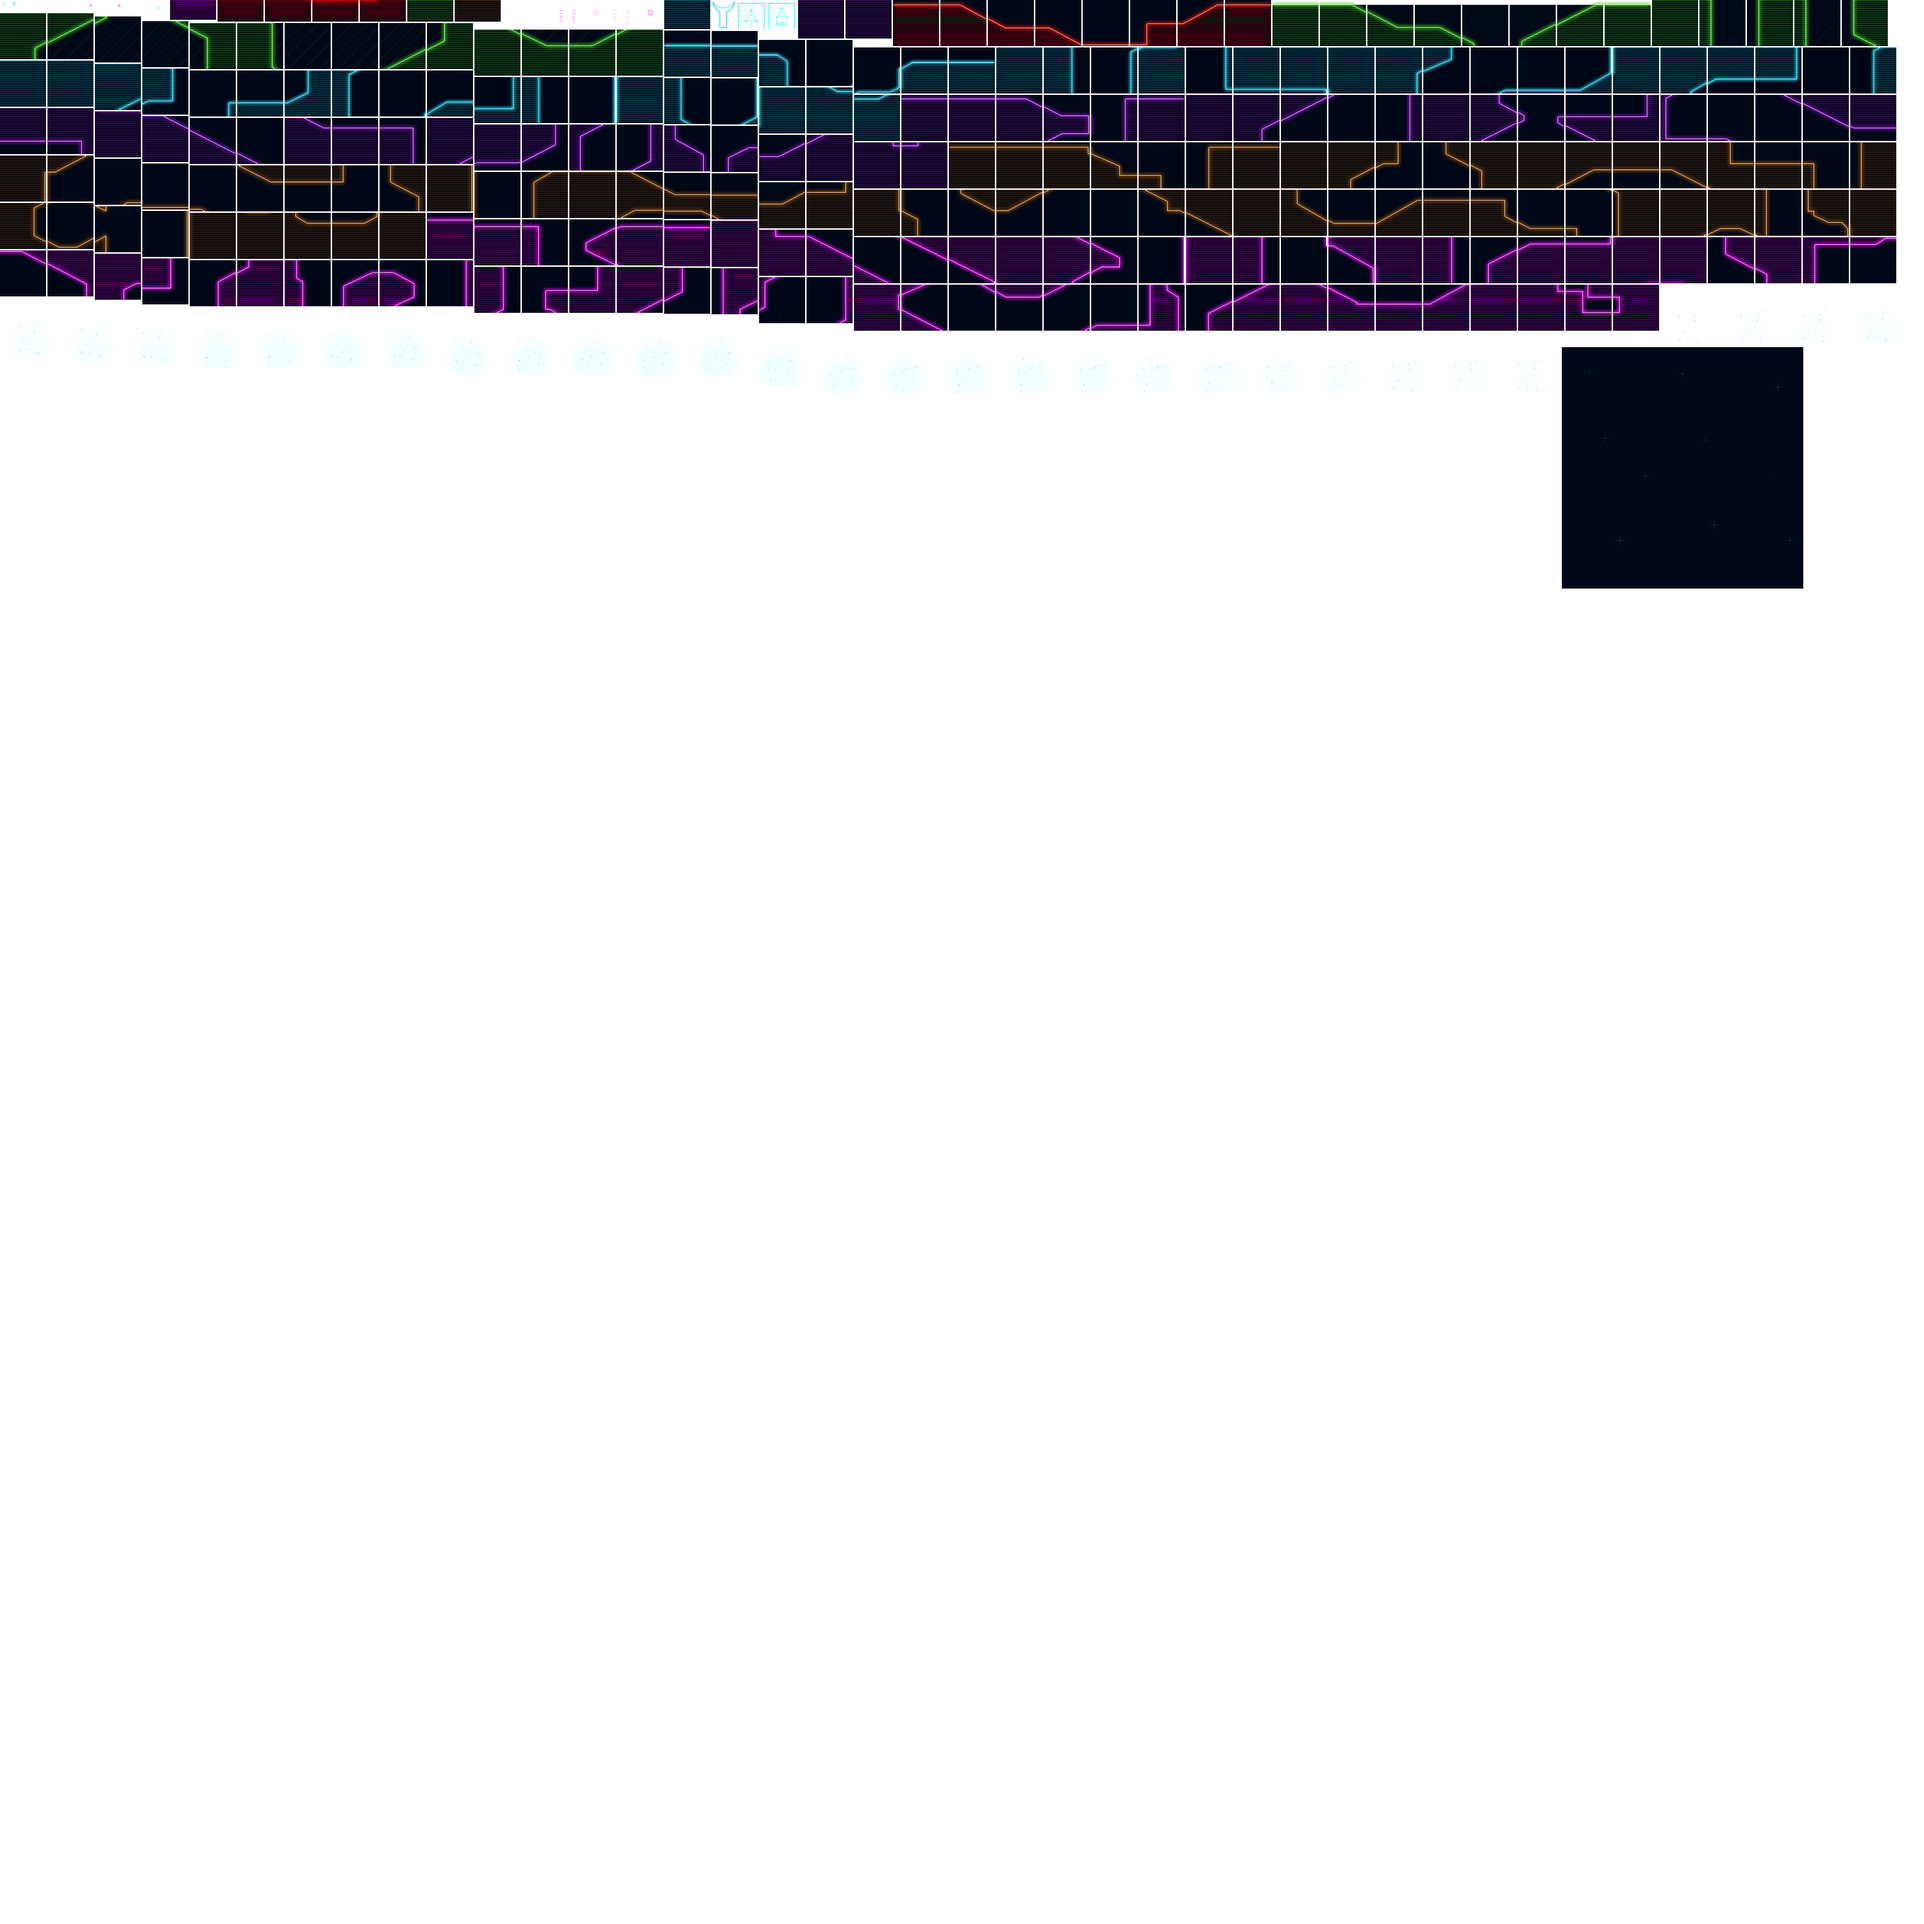
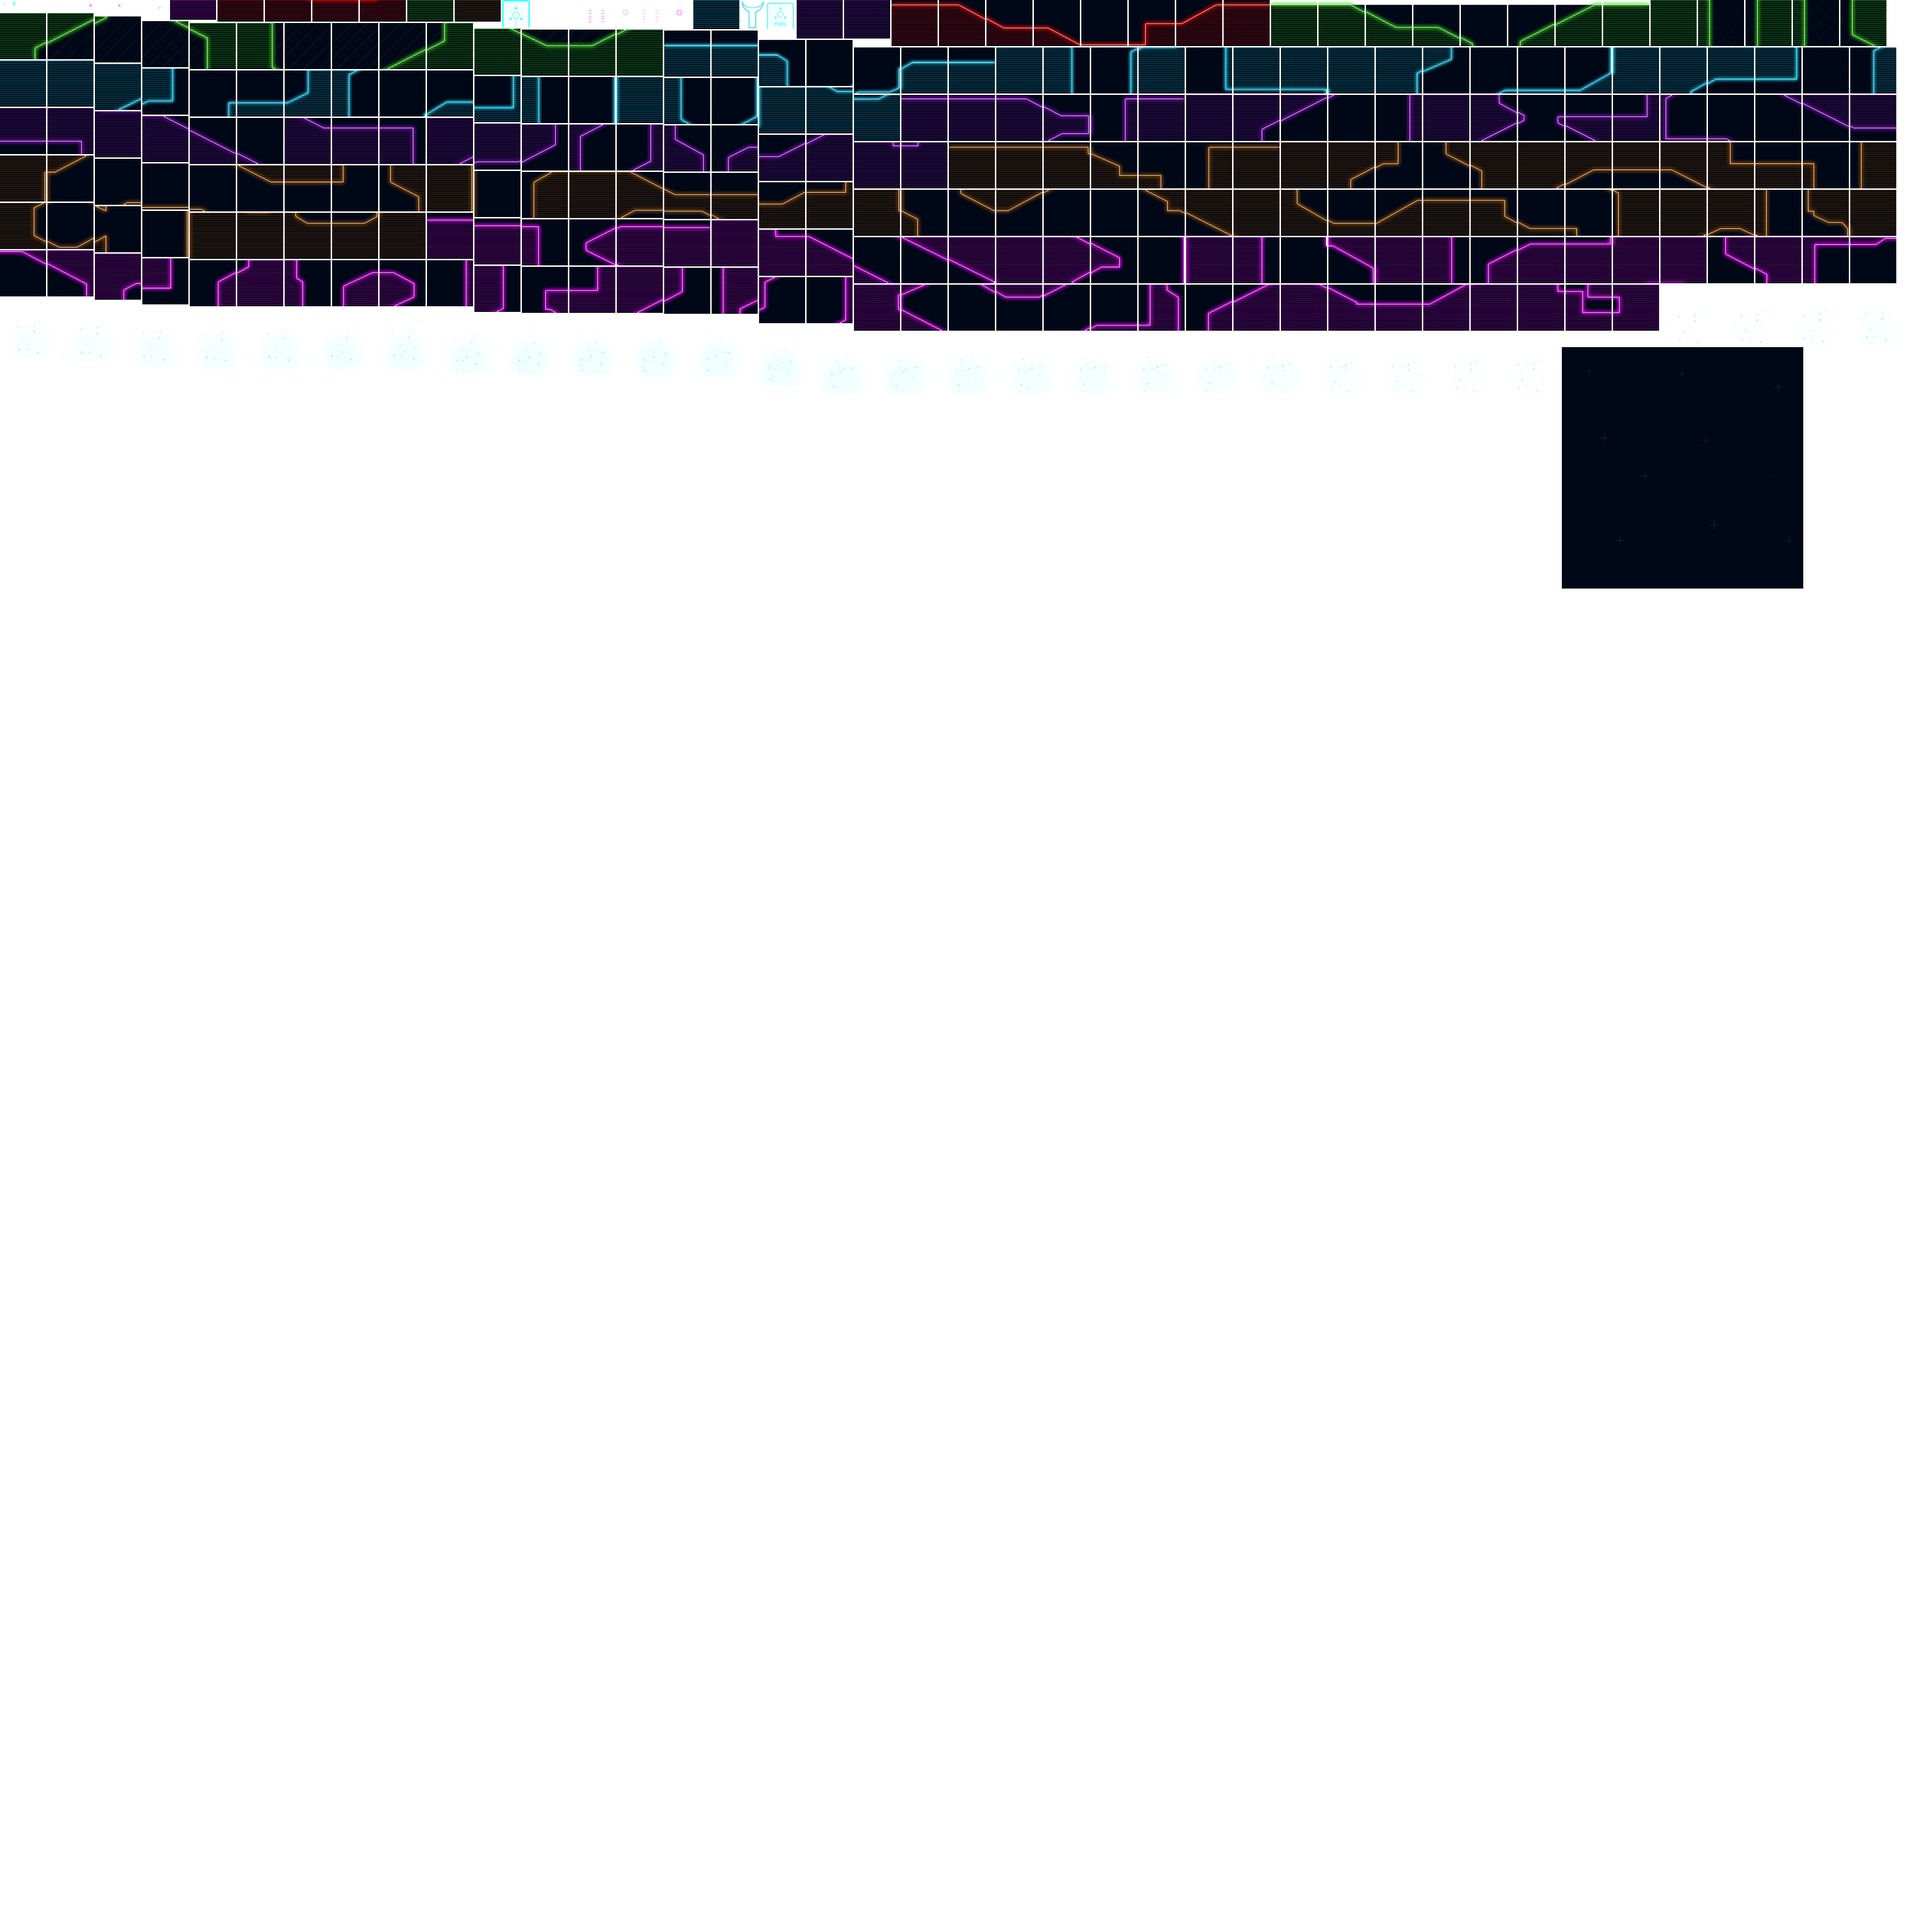
new refuel anim

diff --git a/src/app/actors/Fuel.js b/src/app/actors/Fuel.js
@@ -28,6 +28,8 @@ function Fuel(collisions, groups, imageCacheKey, imageFrameKey, x, y, player) {
   this.health = 250;
   this.player = player;
   this.init();
+
+
 }
 
 var p = Fuel.prototype = Object.create(PhysicsActor.prototype, {
@@ -37,6 +39,7 @@ var p = Fuel.prototype = Object.create(PhysicsActor.prototype, {
 module.exports = Fuel;
 
 /**
+ * @deprecated
  * @property particles
  * @type {null}
  */
@@ -56,14 +59,59 @@ p.refuelAmount = 1;
 p.isRefuelling = false;
 
 /**
+ *
+ * @type {boolean}
+ */
+p.isAnimating = false;
+
+/**
  * @method init
  */
 p.init = function () {
-  this.createParticles();
   this.initCustomPhysics(true);
   this.drawSensor();
   this.initSensorPhysics();
   this.setPhysicsShape();
+  this.createFuelAnim();
+};
+
+p.createFuelAnim = function () {
+  this.fuelAnim = game.add.sprite(this.x, this.y, 'combined', 'Fuel_Anim_001.png');
+  this.fuelAnim.x -= this.width;
+  this.fuelAnim.y -= this.height / 2 + this.fuelAnim.height / 2;
+  this.fuelAnim.animations.add('refuelling', [
+    'Fuel_Anim_001.png',
+    'Fuel_Anim_002.png',
+    'Fuel_Anim_003.png',
+    'Fuel_Anim_004.png',
+    'Fuel_Anim_005.png',
+    'Fuel_Anim_006.png',
+    'Fuel_Anim_007.png',
+    'Fuel_Anim_008.png',
+    'Fuel_Anim_009.png',
+    'Fuel_Anim_010.png',
+    'Fuel_Anim_011.png',
+    'Fuel_Anim_012.png',
+    'Fuel_Anim_013.png',
+    'Fuel_Anim_014.png',
+    'Fuel_Anim_015.png',
+    'Fuel_Anim_016.png',
+    'Fuel_Anim_017.png',
+    'Fuel_Anim_018.png',
+    'Fuel_Anim_019.png',
+    'Fuel_Anim_020.png',
+    'Fuel_Anim_021.png',
+    'Fuel_Anim_022.png',
+    'Fuel_Anim_023.png',
+    'Fuel_Anim_024.png',
+    'Fuel_Anim_025.png',
+    'Fuel_Anim_026.png',
+    'Fuel_Anim_027.png',
+    'Fuel_Anim_028.png',
+    'Fuel_Anim_029.png',
+    'Fuel_Anim_030.png'
+  ], 60, true);
+  this.fuelAnim.visible = false;
 };
 
 p.drawSensor = function () {
@@ -72,7 +120,6 @@ p.drawSensor = function () {
   this.sensor = game.add.sprite(this.x, this.y - this.height, bmd);
   this.sensor.width = this.width;
   this.sensor.height = this.height;
-  //this.sensor.anchor.setTo(0.5);
   this.sensor.x -= this.sensor.width / 2;
   this.sensor.y -= this.sensor.height / 2;
 };
@@ -80,7 +127,7 @@ p.drawSensor = function () {
 p.initSensorPhysics = function () {
   game.physics.p2.enable(this.sensor, properties.dev.debugPhysics);
   this.sensor.body.clearShapes();
-  var box = this.sensor.body.addRectangle(this.sensor.width, this.sensor.height, this.sensor.width/2, this.sensor.height/2, 0);
+  var box = this.sensor.body.addRectangle(this.sensor.width, this.sensor.height, this.sensor.width / 2, this.sensor.height / 2, 0);
   box.sensor = true;
   this.sensor.body.motionState = 2;
   this.sensor.body.setCollisionGroup(this.collisions.fuels);
@@ -117,28 +164,38 @@ p.explode = function () {
  * @method update
  */
 p.update = function () {
-    if (this.isRefuelling) {
-      if (!this.particles.isEmitting) {
-        this.particles.start(this.position, this.player.position);
-        TweenMax.to(this, 0.5, {tint: 0xfffffe, tintAmount: 1});
-      }
-      this.particles.update();
-      gameState.fuel += this.refuelAmount;
-      this.damage(1);
-    } else {
-      if (this.particles.isEmitting) {
-        this.particles.stop();
-        this.tint = 0xffffff;
-      }
+
+  if (this.isRefuelling) {
+
+    if (!this.isAnimating) {
+      this.isAnimating = true;
+      this.fuelAnim.animations.play('refuelling');
+      this.fuelAnim.visible = true;
     }
+
+
+   TweenMax.to(this, 0.5, {tint: 0xfffffe, tintAmount: 1});
+    gameState.fuel += this.refuelAmount;
+    this.damage(1);
+  } else {
+
+    if (this.isAnimating) {
+      this.fuelAnim.animations.stop('refuelling', true);
+      this.isAnimating = false;
+      this.fuelAnim.visible = false;
+    }
+    //this.particles.stop();
+    this.tint = 0xffffff;
+  }
 };
 
 /**
+ * @deprecated
  * @method createParticles
  */
 p.createParticles = function () {
-  this.particles = new FuelParticlesSystem();
-  this.particles.init(this.position);
+  //this.particles = new FuelParticlesSystem();
+  //this.particles.init(this.position);
 };
 
 /**
@@ -148,10 +205,10 @@ p.createParticles = function () {
  */
 p.setPhysicsShape = function () {
   this.fuelPadding = {
-    x: 6.5,
-    y: 5
+    x: 0,
+    y: 0
   };
-  this.body.addRectangle(this.width - this.fuelPadding.x * 2, this.height - this.fuelPadding.y, 1, this.fuelPadding.y);
+  this.body.addRectangle(this.width - this.fuelPadding.x * 2, this.height - this.fuelPadding.y, this.fuelPadding.x, this.fuelPadding.y);
   this.body.setCollisionGroup(this.collisions.fuels);
   this.body.collides([this.collisions.players, this.collisions.bullets], this.explode, this);
 };
@@ -180,6 +237,7 @@ p.kill = function () {
  */
 p.cleanup = function () {
   Phaser.Sprite.prototype.kill.call(this);
+  this.fuelAnim.kill();
   this.body.removeFromWorld();
   this.body.destroy();
   this.sensor.kill();

diff --git a/src/app/properties.js b/src/app/properties.js
@@ -75,7 +75,7 @@ module.exports = {
       orbPosition: {x: 2600, y: 1732},
       orbHolder: {x: 2600, y: 1770}
     },
-    startLevel: 2,
+    startLevel: 1,
     data: [
       {
         useAtlas: true,
